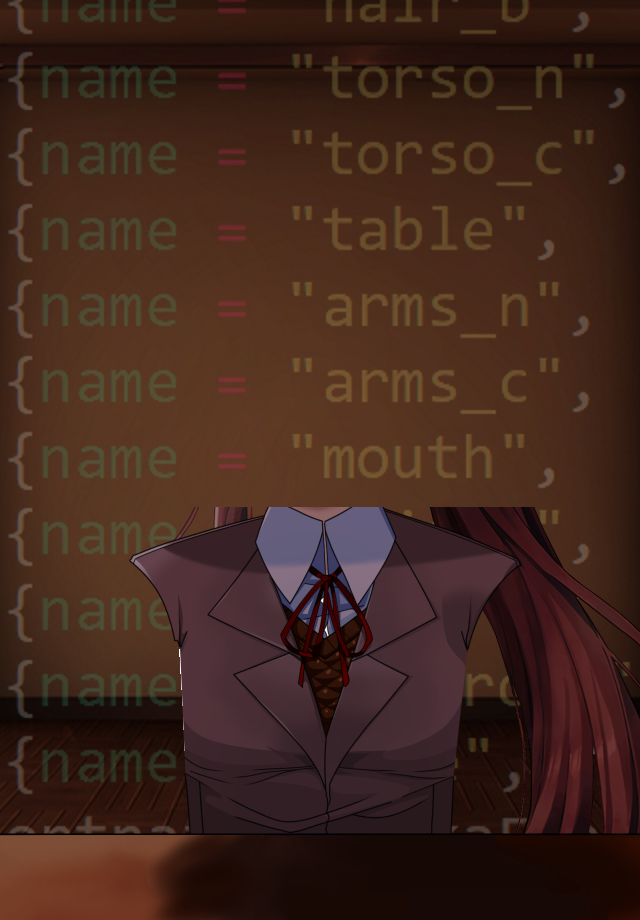
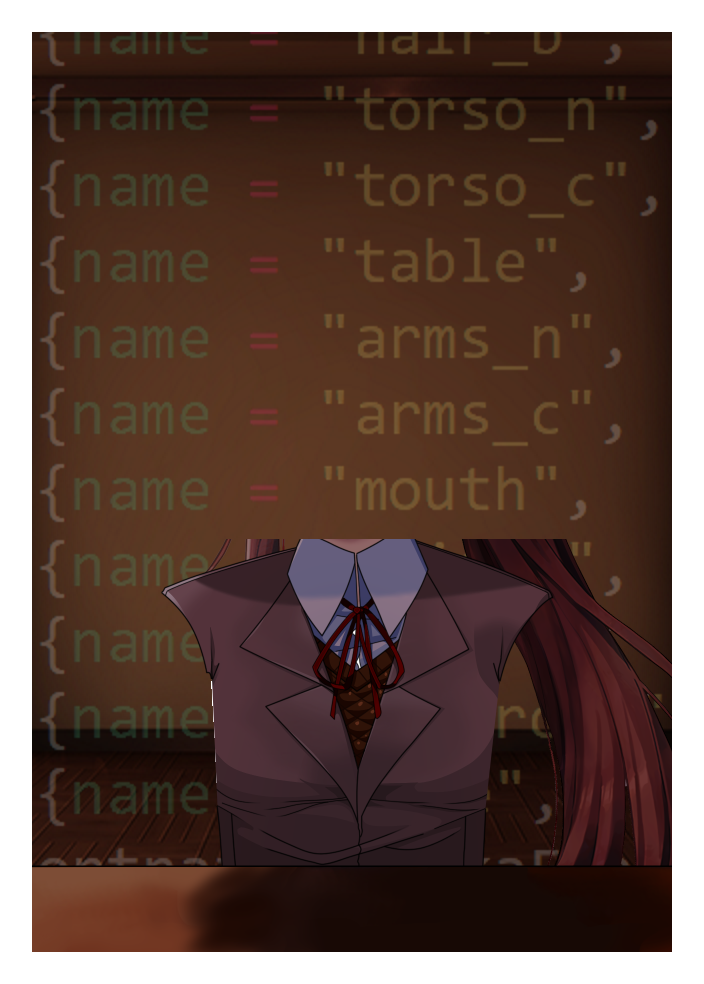
Even more Breaking Monika Attempts

diff --git a/Smart_Attempt/dist/prettycards.user.js b/Smart_Attempt/dist/prettycards.user.js
@@ -156,7 +156,7 @@ eval("__webpack_require__.r(__webpack_exports__);\n/* harmony export (binding) *
 /***/ (function(module, __webpack_exports__, __webpack_require__) {
 
 "use strict";
-eval("__webpack_require__.r(__webpack_exports__);\n/* harmony import */ var _src_libraries_underscript_checker_js__WEBPACK_IMPORTED_MODULE_0__ = __webpack_require__(/*! /src/libraries/underscript_checker.js */ \"./src/libraries/underscript_checker.js\");\n/* harmony import */ var _src_libraries_utility_js__WEBPACK_IMPORTED_MODULE_1__ = __webpack_require__(/*! /src/libraries/utility.js */ \"./src/libraries/utility.js\");\n/* harmony import */ var _src_libraries_custom_cards_custom_cards_dictionary_js__WEBPACK_IMPORTED_MODULE_2__ = __webpack_require__(/*! /src/libraries/custom_cards/custom_cards_dictionary.js */ \"./src/libraries/custom_cards/custom_cards_dictionary.js\");\n/* harmony import */ var _src_libraries_custom_cards_custom_card_filters_js__WEBPACK_IMPORTED_MODULE_3__ = __webpack_require__(/*! /src/libraries/custom_cards/custom_card_filters.js */ \"./src/libraries/custom_cards/custom_card_filters.js\");\n/* harmony import */ var _src_libraries_custom_cards_custom_cards_ddlc_js__WEBPACK_IMPORTED_MODULE_4__ = __webpack_require__(/*! /src/libraries/custom_cards/custom_cards_ddlc.js */ \"./src/libraries/custom_cards/custom_cards_ddlc.js\");\n\r\n\r\n\r\n\r\n\r\n\r\n\r\n\r\n\r\nvar bonusExtensions = [\"DDLC\", \"LUNA\"];\r\nvar bonusTribes = [\"CHIBI\", \"DOKI\", \"CHRSPELL\", \"MELISSAATTACK\"];\r\n\r\n_src_libraries_utility_js__WEBPACK_IMPORTED_MODULE_1__[\"utility\"].loadCSSFromLink(\"https://cdn.jsdelivr.net/gh/CMD-God/prettycards@b6c7dac53c2af7f56eb0305594d9e824f174ebb5/css/CustomCards.css\");\r\n\r\nfunction test_getResizedFontSize(container, maxHeight) {\r\n\tconsole.log(\"Start: \", container);\r\n    var fontSize = 12;\r\n    var max = 10;\r\n    var i = 0;\r\n    var $clonedContainer = container.parent().clone();\r\n    $clonedContainer.appendTo('body');\r\n    $clonedContainer.css('font-size', fontSize + 'px');\r\n    var $clonedContainerDiv = $clonedContainer.find('div');\r\n\tconsole.log($clonedContainerDiv.outerHeight());\r\n    while ($clonedContainerDiv.outerHeight() >= maxHeight && i < max) {\r\n        fontSize = fontSize - 0.5;\r\n        $clonedContainer.css('font-size', fontSize + 'px');\r\n        i++;\r\n\t\tconsole.log(fontSize, i);\r\n    }\r\n    $clonedContainer.remove();\r\n\tconsole.log(\"Return\", fontSize);\r\n    return fontSize;\r\n}\r\n\r\nif (_src_libraries_underscript_checker_js__WEBPACK_IMPORTED_MODULE_0__[\"settings\"].easter_egg_cards.value()) {\r\n\r\n\t_src_libraries_underscript_checker_js__WEBPACK_IMPORTED_MODULE_0__[\"PrettyCards_plugin\"].events.on(\"appendCard()\", function(data) {\r\n\t\tvar html$ = data.element;\r\n\t\tvar card = data.card;\r\n\t\tif (card.fixedId >= _src_libraries_custom_cards_custom_cards_dictionary_js__WEBPACK_IMPORTED_MODULE_2__[\"CustomCardsDictionary\"].customCardsStart) {\r\n\t\t\thtml$.addClass(\"ext_\" + card.extension);\r\n\t\t\t//if (card.extension == \"DDLC\") {\r\n\t\t\t//\thtml$.find().css(\"font-family\", \"Aller\");\r\n\t\t\t//}\r\n\t\t\thtml$.find(\".cardImage\").css('background', \"url('https://raw.githubusercontent.com/CMD-God/prettycards/master/img/Cards/\" + card.extension + \"/\" + card.image + \".png') no-repeat\");\r\n\t\t\tif ((card.extension !== \"BASE\") && (card.extension !== \"DELTARUNE\")) {\r\n\t\t\t\thtml$.find('.cardRarity').css('background', 'transparent url(\\'https://raw.githubusercontent.com/CMD-God/prettycards/master/img/RarityIcons/' + card.extension + '/' + card.rarity + '.png\\') no-repeat');\r\n\t\t\t};\r\n\t\t\t\r\n\t\t\tif (card.background) {\r\n\t\t\t\t\r\n\t\t\t}\r\n\t\t\t\r\n\t\t\tvar cardNameDiv$ = html$.find('.cardName div');\r\n\t\t\tvar cardDescDiv$ = html$.find('.cardDesc div');\r\n\t\t\t\r\n\t\t\tcardNameDiv$.css(\"font-family\", \"Aller\");\r\n\t\t\tcardDescDiv$.css(\"font-family\", \"Aller\");\r\n\r\n\t\t\t//console.log(getResizedFontSize(cardNameDiv$, 25) + \"px\");\r\n\t\t\tconsole.log(\"Name Resize Start \", card.name);\r\n\t\t\tvar nameSize = test_getResizedFontSize(cardNameDiv$, 25);\r\n\t\t\tcardNameDiv$.css('font-size', (nameSize + \"px\"));\r\n\t\t\tconsole.log(\"cardNameDiv font-size\", nameSize + \"px\");\r\n\t\t\t\r\n\t\t\tconsole.log(\"Description Resize Start \", card.name);\r\n\t\t\tvar descSize = test_getResizedFontSize(cardDescDiv$, 81);\r\n\t\t\tcardDescDiv$.css('font-size', (descSize + \"px\"));\r\n\t\t\tconsole.log(\"cardDescDiv font-size\", descSize + \"px\");\r\n\t\t\t\r\n\t\t\tvar tribe_elements = html$.find(\".cardTribes\").children();\r\n\t\t\tfor (var i=0; i < card.tribes.length; i++) {\r\n\t\t\t\tvar tribe = card.tribes[i];\r\n\t\t\t\tif (bonusTribes.includes(tribe)) {\r\n\t\t\t\t\ttribe_elements[i].src = \"https://raw.githubusercontent.com/CMD-God/prettycards/master/img/Tribes/\" + tribe + \".png\";\r\n\t\t\t\t}\r\n\t\t\t}\r\n\t\t}\r\n\t});\r\n\t\r\n\tfunction AddAllCards() {\r\n\t\tfor (var i=0; i < _src_libraries_custom_cards_custom_cards_dictionary_js__WEBPACK_IMPORTED_MODULE_2__[\"CustomCardsDictionary\"].customCards.length; i++) {\r\n\t\t\tvar card = _src_libraries_custom_cards_custom_cards_dictionary_js__WEBPACK_IMPORTED_MODULE_2__[\"CustomCardsDictionary\"].customCards[i];\r\n\t\t\twindow.allCards.push(card);\r\n\t\t}\r\n\t}\r\n\t\r\n\tfunction AddCollection() {\r\n\t\t\r\n\t\tvar isDecks = underscript.onPage(\"Decks\");\r\n\t\tfor (var i=0; i < _src_libraries_custom_cards_custom_cards_dictionary_js__WEBPACK_IMPORTED_MODULE_2__[\"CustomCardsDictionary\"].customCards.length; i++) {\r\n\t\t\tvar card = _src_libraries_custom_cards_custom_cards_dictionary_js__WEBPACK_IMPORTED_MODULE_2__[\"CustomCardsDictionary\"].customCards[i];\r\n\t\t\tif (card.rarity !== \"TOKEN\" || !isDecks) {\r\n\t\t\t\tconsole.log(card);\r\n\t\t\t\tvar shiny = _src_libraries_utility_js__WEBPACK_IMPORTED_MODULE_1__[\"utility\"].completeCopy(card);\r\n\t\t\t\tshiny.shiny = true;\r\n\t\t\t\twindow.collection.push(card);\r\n\t\t\t\twindow.collection.push(shiny);\r\n\t\t\t\tif (isDecks) {\r\n\t\t\t\t\tfor (var key in window.deckCollections) {\r\n\t\t\t\t\t\twindow.deckCollections[key].push(card);\r\n\t\t\t\t\t\twindow.deckCollections[key].push(shiny);\r\n\t\t\t\t\t}\r\n\t\t\t\t}\r\n\t\t\t}\r\n\t\t}\r\n\t\t\r\n\t\tif (isDecks) {\r\n\t\t\tfor (var key in window.deckCollections) {\r\n\t\t\t\twindow.deckCollections[key].sort(function (a, b) {\r\n\t\t\t\t\treturn compare(a.cost, b.cost) || $.i18n('card-name-' + a.id, 1).localeCompare($.i18n('card-name-' + b.id, 1)) || (a.shiny - b.shiny);\r\n\t\t\t\t});\r\n\t\t\t\t//console.log(\"Deck Collection\", key, deckCollections[key]);\r\n\t\t\t}\r\n\t\t}\r\n\t\t\r\n\t\twindow.collection.sort(function (a, b) {\r\n\t\t\treturn compare(a.cost, b.cost) || $.i18n('card-name-' + a.id, 1).localeCompare($.i18n('card-name-' + b.id, 1)) || (a.shiny - b.shiny);\r\n\t\t});\r\n\t\t\r\n\t\tsetTimeout(applyFilters, 100);\r\n\t}\r\n\t\r\n\t_src_libraries_underscript_checker_js__WEBPACK_IMPORTED_MODULE_0__[\"PrettyCards_plugin\"].events.on('Deck:Loaded Craft:Loaded', function(data) {\r\n\t\tAddCollection();\r\n\t});\r\n\t\r\n\twindow.document.addEventListener(\"allCardsReady\", function() {\r\n\t\tAddAllCards();\r\n\t});\r\n\t\r\n\tif (underscript.onPage(\"Decks\") || underscript.onPage(\"Crafting\")) {\r\n\t\tObject(_src_libraries_custom_cards_custom_card_filters_js__WEBPACK_IMPORTED_MODULE_3__[\"SetUpFilters\"])();\r\n\t}\r\n\t\r\n}\n\n//# sourceURL=webpack:///./src/libraries/custom_cards/custom_cards.js?");
+eval("__webpack_require__.r(__webpack_exports__);\n/* harmony import */ var _src_libraries_underscript_checker_js__WEBPACK_IMPORTED_MODULE_0__ = __webpack_require__(/*! /src/libraries/underscript_checker.js */ \"./src/libraries/underscript_checker.js\");\n/* harmony import */ var _src_libraries_utility_js__WEBPACK_IMPORTED_MODULE_1__ = __webpack_require__(/*! /src/libraries/utility.js */ \"./src/libraries/utility.js\");\n/* harmony import */ var _src_libraries_custom_cards_custom_cards_dictionary_js__WEBPACK_IMPORTED_MODULE_2__ = __webpack_require__(/*! /src/libraries/custom_cards/custom_cards_dictionary.js */ \"./src/libraries/custom_cards/custom_cards_dictionary.js\");\n/* harmony import */ var _src_libraries_custom_cards_custom_card_filters_js__WEBPACK_IMPORTED_MODULE_3__ = __webpack_require__(/*! /src/libraries/custom_cards/custom_card_filters.js */ \"./src/libraries/custom_cards/custom_card_filters.js\");\n/* harmony import */ var _src_libraries_custom_cards_custom_cards_ddlc_js__WEBPACK_IMPORTED_MODULE_4__ = __webpack_require__(/*! /src/libraries/custom_cards/custom_cards_ddlc.js */ \"./src/libraries/custom_cards/custom_cards_ddlc.js\");\n\r\n\r\n\r\n\r\n\r\n\r\n\r\n\r\n\r\nvar bonusExtensions = [\"DDLC\", \"LUNA\"];\r\nvar bonusTribes = [\"CHIBI\", \"DOKI\", \"CHRSPELL\", \"MELISSAATTACK\"];\r\n\r\n_src_libraries_utility_js__WEBPACK_IMPORTED_MODULE_1__[\"utility\"].loadCSSFromLink(\"https://cdn.jsdelivr.net/gh/CMD-God/prettycards@a1ff9abe8c10f03bb1530d8a1076bee0eadeb3d5/css/CustomCards.css\");\r\n\r\nfunction test_getResizedFontSize(container, maxHeight) {\r\n\tconsole.log(\"Start: \", container);\r\n    var fontSize = 12;\r\n    var max = 10;\r\n    var i = 0;\r\n    var $clonedContainer = container.parent().clone();\r\n    $clonedContainer.appendTo('body');\r\n    $clonedContainer.css('font-size', fontSize + 'px');\r\n    var $clonedContainerDiv = $clonedContainer.find('div');\r\n\tconsole.log($clonedContainerDiv.outerHeight());\r\n    while ($clonedContainerDiv.outerHeight() >= maxHeight && i < max) {\r\n        fontSize = fontSize - 0.5;\r\n        $clonedContainer.css('font-size', fontSize + 'px');\r\n        i++;\r\n\t\tconsole.log(fontSize, i);\r\n    }\r\n    $clonedContainer.remove();\r\n\tconsole.log(\"Return\", fontSize);\r\n    return fontSize;\r\n}\r\n\r\nif (_src_libraries_underscript_checker_js__WEBPACK_IMPORTED_MODULE_0__[\"settings\"].easter_egg_cards.value()) {\r\n\r\n\t_src_libraries_underscript_checker_js__WEBPACK_IMPORTED_MODULE_0__[\"PrettyCards_plugin\"].events.on(\"appendCard()\", function(data) {\r\n\t\tvar html$ = data.element;\r\n\t\tvar card = data.card;\r\n\t\tif (card.fixedId >= _src_libraries_custom_cards_custom_cards_dictionary_js__WEBPACK_IMPORTED_MODULE_2__[\"CustomCardsDictionary\"].customCardsStart) {\r\n\t\t\thtml$.addClass(\"ext_\" + card.extension);\r\n\t\t\t//if (card.extension == \"DDLC\") {\r\n\t\t\t//\thtml$.find().css(\"font-family\", \"Aller\");\r\n\t\t\t//}\r\n\t\t\thtml$.find(\".cardImage\").css('background', \"url('https://raw.githubusercontent.com/CMD-God/prettycards/master/img/Cards/\" + card.extension + \"/\" + card.image + \".png') no-repeat\");\r\n\t\t\tif ((card.extension !== \"BASE\") && (card.extension !== \"DELTARUNE\")) {\r\n\t\t\t\thtml$.find('.cardRarity').css('background', 'transparent url(\\'https://raw.githubusercontent.com/CMD-God/prettycards/master/img/RarityIcons/' + card.extension + '/' + card.rarity + '.png\\') no-repeat');\r\n\t\t\t};\r\n\t\t\t\r\n\t\t\tif (card.background) {\r\n\t\t\t\tvar bg = $('<div class=\"breakingSkinBackground\"></div>');\r\n\t\t\t\tbg.css(\"background\", \"url('https://raw.githubusercontent.com/CMD-God/prettycards/master/img/Cards/\" + card.extension + \"/\" + card.background + \".png') no-repeat\");\r\n\t\t\t\tbg.css(\"background-size\", \"contain\");\r\n\t\t\t\tbg.css(\"background-position\", \"center\");\r\n\t\t\t\thtml$.append(bg);\r\n\t\t\t}\r\n\t\t\t\r\n\t\t\tvar cardNameDiv$ = html$.find('.cardName div');\r\n\t\t\tvar cardDescDiv$ = html$.find('.cardDesc div');\r\n\t\t\t\r\n\t\t\tcardNameDiv$.css(\"font-family\", \"Aller\");\r\n\t\t\tcardDescDiv$.css(\"font-family\", \"Aller\");\r\n\r\n\t\t\t//console.log(getResizedFontSize(cardNameDiv$, 25) + \"px\");\r\n\t\t\tconsole.log(\"Name Resize Start \", card.name);\r\n\t\t\tvar nameSize = test_getResizedFontSize(cardNameDiv$, 25);\r\n\t\t\tcardNameDiv$.css('font-size', (nameSize + \"px\"));\r\n\t\t\tconsole.log(\"cardNameDiv font-size\", nameSize + \"px\");\r\n\t\t\t\r\n\t\t\tconsole.log(\"Description Resize Start \", card.name);\r\n\t\t\tvar descSize = test_getResizedFontSize(cardDescDiv$, 81);\r\n\t\t\tcardDescDiv$.css('font-size', (descSize + \"px\"));\r\n\t\t\tconsole.log(\"cardDescDiv font-size\", descSize + \"px\");\r\n\t\t\t\r\n\t\t\tvar tribe_elements = html$.find(\".cardTribes\").children();\r\n\t\t\tfor (var i=0; i < card.tribes.length; i++) {\r\n\t\t\t\tvar tribe = card.tribes[i];\r\n\t\t\t\tif (bonusTribes.includes(tribe)) {\r\n\t\t\t\t\ttribe_elements[i].src = \"https://raw.githubusercontent.com/CMD-God/prettycards/master/img/Tribes/\" + tribe + \".png\";\r\n\t\t\t\t}\r\n\t\t\t}\r\n\t\t}\r\n\t});\r\n\t\r\n\tfunction AddAllCards() {\r\n\t\tfor (var i=0; i < _src_libraries_custom_cards_custom_cards_dictionary_js__WEBPACK_IMPORTED_MODULE_2__[\"CustomCardsDictionary\"].customCards.length; i++) {\r\n\t\t\tvar card = _src_libraries_custom_cards_custom_cards_dictionary_js__WEBPACK_IMPORTED_MODULE_2__[\"CustomCardsDictionary\"].customCards[i];\r\n\t\t\twindow.allCards.push(card);\r\n\t\t}\r\n\t}\r\n\t\r\n\tfunction AddCollection() {\r\n\t\t\r\n\t\tvar isDecks = underscript.onPage(\"Decks\");\r\n\t\tfor (var i=0; i < _src_libraries_custom_cards_custom_cards_dictionary_js__WEBPACK_IMPORTED_MODULE_2__[\"CustomCardsDictionary\"].customCards.length; i++) {\r\n\t\t\tvar card = _src_libraries_custom_cards_custom_cards_dictionary_js__WEBPACK_IMPORTED_MODULE_2__[\"CustomCardsDictionary\"].customCards[i];\r\n\t\t\tif (card.rarity !== \"TOKEN\" || !isDecks) {\r\n\t\t\t\tconsole.log(card);\r\n\t\t\t\tvar shiny = _src_libraries_utility_js__WEBPACK_IMPORTED_MODULE_1__[\"utility\"].completeCopy(card);\r\n\t\t\t\tshiny.shiny = true;\r\n\t\t\t\twindow.collection.push(card);\r\n\t\t\t\twindow.collection.push(shiny);\r\n\t\t\t\tif (isDecks) {\r\n\t\t\t\t\tfor (var key in window.deckCollections) {\r\n\t\t\t\t\t\twindow.deckCollections[key].push(card);\r\n\t\t\t\t\t\twindow.deckCollections[key].push(shiny);\r\n\t\t\t\t\t}\r\n\t\t\t\t}\r\n\t\t\t}\r\n\t\t}\r\n\t\t\r\n\t\tif (isDecks) {\r\n\t\t\tfor (var key in window.deckCollections) {\r\n\t\t\t\twindow.deckCollections[key].sort(function (a, b) {\r\n\t\t\t\t\treturn compare(a.cost, b.cost) || $.i18n('card-name-' + a.id, 1).localeCompare($.i18n('card-name-' + b.id, 1)) || (a.shiny - b.shiny);\r\n\t\t\t\t});\r\n\t\t\t\t//console.log(\"Deck Collection\", key, deckCollections[key]);\r\n\t\t\t}\r\n\t\t}\r\n\t\t\r\n\t\twindow.collection.sort(function (a, b) {\r\n\t\t\treturn compare(a.cost, b.cost) || $.i18n('card-name-' + a.id, 1).localeCompare($.i18n('card-name-' + b.id, 1)) || (a.shiny - b.shiny);\r\n\t\t});\r\n\t\t\r\n\t\tsetTimeout(applyFilters, 100);\r\n\t}\r\n\t\r\n\t_src_libraries_underscript_checker_js__WEBPACK_IMPORTED_MODULE_0__[\"PrettyCards_plugin\"].events.on('Deck:Loaded Craft:Loaded', function(data) {\r\n\t\tAddCollection();\r\n\t});\r\n\t\r\n\twindow.document.addEventListener(\"allCardsReady\", function() {\r\n\t\tAddAllCards();\r\n\t});\r\n\t\r\n\tif (underscript.onPage(\"Decks\") || underscript.onPage(\"Crafting\")) {\r\n\t\tObject(_src_libraries_custom_cards_custom_card_filters_js__WEBPACK_IMPORTED_MODULE_3__[\"SetUpFilters\"])();\r\n\t}\r\n\t\r\n}\n\n//# sourceURL=webpack:///./src/libraries/custom_cards/custom_cards.js?");
 
 /***/ }),
 
@@ -168,7 +168,7 @@ eval("__webpack_require__.r(__webpack_exports__);\n/* harmony import */ var _src
 /***/ (function(module, __webpack_exports__, __webpack_require__) {
 
 "use strict";
-eval("__webpack_require__.r(__webpack_exports__);\n/* harmony import */ var _src_libraries_custom_cards_custom_cards_dictionary_js__WEBPACK_IMPORTED_MODULE_0__ = __webpack_require__(/*! /src/libraries/custom_cards/custom_cards_dictionary.js */ \"./src/libraries/custom_cards/custom_cards_dictionary.js\");\n\r\n\r\n\r\n// Chibis\r\n\r\n_src_libraries_custom_cards_custom_cards_dictionary_js__WEBPACK_IMPORTED_MODULE_0__[\"CustomCardsDictionary\"].AddCustomCard({\r\n\tname: \"{{PLURAL:$1|Chibi Sayori|Chibi Sayoris}}\",\r\n\timage: \"Chibi_Sayori\",\r\n\tcost: 3,\r\n\tattack: 2,\r\n\thp: 2,\r\n\tdescription: \"{{KW:MAGIC}}: All {{TRIBE:CHIBI|2}} get +1/+1/+1 for the rest of the game, and clear all negative effects from all ally monsters.\",\r\n\ttribes: [\"CHIBI\"],\r\n\textension: \"DDLC\",\r\n\trarity: \"COMMON\"\r\n});\r\n\r\n_src_libraries_custom_cards_custom_cards_dictionary_js__WEBPACK_IMPORTED_MODULE_0__[\"CustomCardsDictionary\"].AddCustomCard({\r\n\tname: \"{{PLURAL:$1|Chibi Natsuki|Chibi Natsukis}}\",\r\n\timage: \"Chibi_Natsuki\",\r\n\tcost: 3,\r\n\tattack: 2,\r\n\thp: 2,\r\n\tdescription: \"{{KW:MAGIC}}: All {{TRIBE:CHIBI|2}} get +1/+1/+1 for the rest of the game, and give +3 {{HP}} to an ally monster.\",\r\n\ttribes: [\"CHIBI\"],\r\n\textension: \"DDLC\",\r\n\trarity: \"COMMON\"\r\n});\r\n\r\n_src_libraries_custom_cards_custom_cards_dictionary_js__WEBPACK_IMPORTED_MODULE_0__[\"CustomCardsDictionary\"].AddCustomCard({\r\n\tname: \"{{PLURAL:$1|Chibi Yuri|Chibi Yuris}}\",\r\n\timage: \"Chibi_Yuri\",\r\n\tcost: 3,\r\n\tattack: 2,\r\n\thp: 2,\r\n\tdescription: \"{{KW:MAGIC}}: All {{TRIBE:CHIBI|2}} get +1/+1/+1 for the rest of the game, and give +2 {{ATK}} to an ally monster.\",\r\n\ttribes: [\"CHIBI\"],\r\n\textension: \"DDLC\",\r\n\trarity: \"COMMON\"\r\n});\r\n\r\n_src_libraries_custom_cards_custom_cards_dictionary_js__WEBPACK_IMPORTED_MODULE_0__[\"CustomCardsDictionary\"].AddCustomCard({\r\n\tname: \"{{PLURAL:$1|Chibi Monika|Chibi Monikas}}\",\r\n\timage: \"Chibi_Monika\",\r\n\tcost: 5,\r\n\tattack: 2,\r\n\thp: 2,\r\n\tdescription: \"{{KW:MAGIC}}: All {{TRIBE:CHIBI|2}} get +1/+1/+1 for the rest of the game, and add a copy of all other ally {{TRIBE:CHIBI|2}} to your hand.\",\r\n\ttribes: [\"CHIBI\"],\r\n\textension: \"DDLC\",\r\n\trarity: \"COMMON\"\r\n});\r\n\r\n// Regular Cast\r\n\r\n_src_libraries_custom_cards_custom_cards_dictionary_js__WEBPACK_IMPORTED_MODULE_0__[\"CustomCardsDictionary\"].AddCustomCard({\r\n\tname: \"{{PLURAL:$1|Sayori|Sayoris}}\",\r\n\timage: \"Sayori\",\r\n\tcost: 4,\r\n\tattack: 3,\r\n\thp: 3,\r\n\tdescription: \"{{KW:MAGIC}}: Draw a {{TRIBE:DOKI|1}} from your deck. {{KW:SUICIDE}}: Deal 1 {{DMG}} to all enemy monsters. Damaged targets get -3 Max {{HP}} instead.\",\r\n\ttribes: [\"DOKI\"],\r\n\textension: \"DDLC\",\r\n\trarity: \"EPIC\"\r\n});\r\n\r\n_src_libraries_custom_cards_custom_cards_dictionary_js__WEBPACK_IMPORTED_MODULE_0__[\"CustomCardsDictionary\"].AddCustomCard({\r\n\tname: \"{{PLURAL:$1|Cupcake|Cupcakes}}\",\r\n\timage: \"Cupcake\",\r\n\tcost: 1,\r\n\tdescription: \"Heal for 4 {{HP}} to an ally or deal 3 {{DMG}} to an enemy monster.\",\r\n\textension: \"DDLC\",\r\n\trarity: \"TOKEN\"\r\n});\r\n\r\n_src_libraries_custom_cards_custom_cards_dictionary_js__WEBPACK_IMPORTED_MODULE_0__[\"CustomCardsDictionary\"].AddCustomCard({\r\n\tname: \"{{PLURAL:$1|Natsuki|Natsukis}}\",\r\n\timage: \"Natsuki\",\r\n\tcost: 4,\r\n\tattack: 3,\r\n\thp: 4,\r\n\tdescription: \"{{KW:MAGIC}}: Add two \" + _src_libraries_custom_cards_custom_cards_dictionary_js__WEBPACK_IMPORTED_MODULE_0__[\"CustomCardsDictionary\"].DescriptionCard(\"Cupcake\", 2) + \" to your hand. {{KW:SUICIDE}}: Deal 5 {{DMG}} to the monster in front of this.\",\r\n\ttribes: [\"DOKI\"],\r\n\textension: \"DDLC\",\r\n\trarity: \"EPIC\"\r\n});\r\n\r\n_src_libraries_custom_cards_custom_cards_dictionary_js__WEBPACK_IMPORTED_MODULE_0__[\"CustomCardsDictionary\"].AddCustomCard({\r\n\tname: \"{{PLURAL:$1|Yuri|Yuris}}\",\r\n\timage: \"Yuri\",\r\n\tcost: 5,\r\n\tattack: 4,\r\n\thp: 3,\r\n\tdescription: \"Whenever this survives {{DMG}}, give this +1 {{HP}}. {{KW:SUICIDE}}: {{KW:PARALYZE}} all ally monsters, then {{KW:PARALYZE}} a random unparalyzed enemy monster for each paralyzed ally monster.\",\r\n\ttribes: [\"DOKI\"],\r\n\textension: \"DDLC\",\r\n\trarity: \"EPIC\"\r\n});\r\n\r\n_src_libraries_custom_cards_custom_cards_dictionary_js__WEBPACK_IMPORTED_MODULE_0__[\"CustomCardsDictionary\"].AddCustomCard({\r\n\tname: \"{{PLURAL:$1|Monika|Monikas}}\",\r\n\timage: \"Monika\",\r\n\tcost: 5,\r\n\tattack: 3,\r\n\thp: 3,\r\n\tdescription: \"{{KW:MAGIC}}: Kill an ally {{TRIBE:DOKI|1}} to summon another \" + _src_libraries_custom_cards_custom_cards_dictionary_js__WEBPACK_IMPORTED_MODULE_0__[\"CustomCardsDictionary\"].DescriptionSelfCard() + \". {{KW:DUST}}: Add another random {{TRIBE:DOKI|1}} to your hand with -2 {{COST}}.\",\r\n\ttribes: [\"DOKI\"],\r\n\textension: \"DDLC\",\r\n\trarity: \"EPIC\"\r\n});\r\n\r\n_src_libraries_custom_cards_custom_cards_dictionary_js__WEBPACK_IMPORTED_MODULE_0__[\"CustomCardsDictionary\"].AddCustomCard({\r\n\tname: \"{{PLURAL:$1|Main Character|Main Characters}}\",\r\n\timage: \"Protagonist\",\r\n\tcost: 6,\r\n\tattack: 3,\r\n\thp: 7,\r\n\ttaunt: true,\r\n\tdescription: \"{{KW:TAUNT}}. {{KW:TURN-END}}: Add a copy of every unique monster to your deck whose {{KW:SUICIDE}} effect was triggered this turn.\",\r\n\t//tribes: [\"DOKI\"],\r\n\textension: \"DDLC\",\r\n\trarity: \"EPIC\"\r\n});\r\n\r\n/*\r\nCustomCardsDictionary.AddCustomCard({\r\n\tname: \"{{PLURAL:$1|Just Monika|Just Monikas}}\",\r\n\timage: \"Just_Monika\",\r\n\tcost: 9,\r\n\tattack: 6,\r\n\thp: 6,\r\n\tdescription: \"{{KW:MAGIC}}: Shuffle all the {{TRIBE:CHRSPELL|2}} into your deck. {{KW:SUICIDE}} effects trigger an additional time.\",\r\n\textension: \"DDLC\",\r\n\trarity: \"DETERMINATION\"\r\n});\r\n*/\r\n\r\n// Just Monika\r\n\r\n_src_libraries_custom_cards_custom_cards_dictionary_js__WEBPACK_IMPORTED_MODULE_0__[\"CustomCardsDictionary\"].AddCustomCard({\r\n\tname: \"{{PLURAL:$1|Sayori.chr|Sayori.chrs}}\",\r\n\timage: \"SayoriCHR\",\r\n\tcost: 0,\r\n\tdescription: \"{{KW:TURBO}}: Remove all negative effects from ally monsters, apply them to the monsters in front of them, burn this and draw a card.\",\r\n\ttribes: [\"CHRSPELL\"],\r\n\textension: \"DDLC\",\r\n\trarity: \"TOKEN\"\r\n});\r\n\r\n_src_libraries_custom_cards_custom_cards_dictionary_js__WEBPACK_IMPORTED_MODULE_0__[\"CustomCardsDictionary\"].AddCustomCard({\r\n\tname: \"{{PLURAL:$1|Natsuki.chr|Natsuki.chrs}}\",\r\n\timage: \"NatsukiCHR\",\r\n\tcost: 0,\r\n\tdescription: \"{{KW:TURBO}}: Add a random 5-{{COST}} monster from your dustpile to your hand, give it -4 {{COST}}, burn this and draw a card.\",\r\n\ttribes: [\"CHRSPELL\"],\r\n\textension: \"DDLC\",\r\n\trarity: \"TOKEN\"\r\n});\r\n\r\n_src_libraries_custom_cards_custom_cards_dictionary_js__WEBPACK_IMPORTED_MODULE_0__[\"CustomCardsDictionary\"].AddCustomCard({\r\n\tname: \"{{PLURAL:$1|Yuri.chr|Yuri.chrs}}\",\r\n\timage: \"YuriCHR\",\r\n\tcost: 0,\r\n\tdescription: \"{{KW:TURBO}}: Kill the enemy monster with the lowest {{HP}}, burn this and draw a card.\",\r\n\ttribes: [\"CHRSPELL\"],\r\n\textension: \"DDLC\",\r\n\trarity: \"TOKEN\"\r\n});\r\n\r\n_src_libraries_custom_cards_custom_cards_dictionary_js__WEBPACK_IMPORTED_MODULE_0__[\"CustomCardsDictionary\"].AddCustomCard({\r\n\tname: \"{{PLURAL:$1|Monika.chr|Monika.chrs}}\",\r\n\timage: \"MonikaCHR\",\r\n\tcost: 0,\r\n\tdescription: \"{{KW:TURBO}}: Send a random ally and enemy non-{{RARITY:DETERMINATION}} monster from the board to their owners' hands, burn this and draw a card.\",\r\n\ttribes: [\"CHRSPELL\"],\r\n\textension: \"DDLC\",\r\n\trarity: \"TOKEN\"\r\n});\r\n\r\n_src_libraries_custom_cards_custom_cards_dictionary_js__WEBPACK_IMPORTED_MODULE_0__[\"CustomCardsDictionary\"].AddCustomArtifact(\"File Explorer\", \r\n\t`{{KW:TURN-END}}: If a monster died this turn, add the next {{TRIBE:CHRSPELL|1}} to the top of your deck. Add an additional one for every ally {{KW:SUICIDE}} effect triggered this turn. \r\n\t\r\n\tOrder of {{TRIBE:CHRSPELL|2}}: ${_src_libraries_custom_cards_custom_cards_dictionary_js__WEBPACK_IMPORTED_MODULE_0__[\"CustomCardsDictionary\"].DescriptionCard(\"Sayori.chr\", 1)} > ${_src_libraries_custom_cards_custom_cards_dictionary_js__WEBPACK_IMPORTED_MODULE_0__[\"CustomCardsDictionary\"].DescriptionCard(\"Natsuki.chr\", 1)} > ${_src_libraries_custom_cards_custom_cards_dictionary_js__WEBPACK_IMPORTED_MODULE_0__[\"CustomCardsDictionary\"].DescriptionCard(\"Yuri.chr\", 1)} > ${_src_libraries_custom_cards_custom_cards_dictionary_js__WEBPACK_IMPORTED_MODULE_0__[\"CustomCardsDictionary\"].DescriptionCard(\"Monika.chr\", 1)} > Start over.`\r\n);\r\n\r\n// Advanced Dokis\r\n\r\n_src_libraries_custom_cards_custom_cards_dictionary_js__WEBPACK_IMPORTED_MODULE_0__[\"CustomCardsDictionary\"].AddCustomCard({\r\n\tname: \"{{PLURAL:$1|Just Monika|Just Monikas}}\",\r\n\timage: \"Just_Monika_Breaking\",\r\n\tbackground: \"Just_Monika_Breaking_BG\",\r\n\tcost: 9,\r\n\tattack: 6,\r\n\thp: 6,\r\n\tdescription: \"{{KW:MAGIC}}: Add the \" + _src_libraries_custom_cards_custom_cards_dictionary_js__WEBPACK_IMPORTED_MODULE_0__[\"CustomCardsDictionary\"].DescriptionArtifact(\"File Explorer\") + \" artifact. Whenever you summon a monster, trigger its {{KW:SUICIDE}} effect.\",\r\n\textension: \"DDLC\",\r\n\ttypeSkin: 1,\r\n\trarity: \"DETERMINATION\"\r\n});\r\n\r\n_src_libraries_custom_cards_custom_cards_dictionary_js__WEBPACK_IMPORTED_MODULE_0__[\"CustomCardsDictionary\"].AddCustomCard({\r\n\tname: \"{{PLURAL:$1|Sad Sayori|Sad Sayoris}}\",\r\n\timage: \"Depressed_Sayori\",\r\n\tcost: 6,\r\n\tattack: 2,\r\n\thp: 5,\r\n\tdescription: \"{{KW:MAGIC}}: Enemies cannot be healed or receive extra {{HP}} until the start of your next turn. {{KW:SUICIDE}}: Give +3 {{HP}} to every ally.\",\r\n\textension: \"DDLC\",\r\n\trarity: \"LEGENDARY\"\r\n});\r\n\r\n_src_libraries_custom_cards_custom_cards_dictionary_js__WEBPACK_IMPORTED_MODULE_0__[\"CustomCardsDictionary\"].AddCustomCard({\r\n\tname: \"{{PLURAL:$1|Club President Sayori|Club President Sayoris}}\",\r\n\timage: \"Club_President_Sayori\",\r\n\tcost: 8,\r\n\tattack: 6,\r\n\thp: 6,\r\n\tdescription: \"{{KW:MAGIC}}: Kill all ally monsters. Shuffle two random {{TRIBE:CHRSPELL|2}} into your deck for each of them.\",\r\n\textension: \"DDLC\",\r\n\trarity: \"LEGENDARY\"\r\n});\r\n\r\n_src_libraries_custom_cards_custom_cards_dictionary_js__WEBPACK_IMPORTED_MODULE_0__[\"CustomCardsDictionary\"].AddCustomCard({\r\n\tname: \"{{PLURAL:$1|Obsessed Yuri|Obsessed Yuris}}\",\r\n\timage: \"Obsessed_Yuri\",\r\n\tcost: 8,\r\n\tattack: 4,\r\n\thp: 5,\r\n\tarmor: true,\r\n\tdescription: \"{{KW:ARMOR}}. Whenever this takes {{DMG}}, shuffle a random {{TRIBE:YURIKNIFE}} into your deck. {{KW:SUICIDE}}: Cast 3 random {{TRIBE:YURIKNIFE|2}} on random targets.\",\r\n\textension: \"DDLC\",\r\n\trarity: \"LEGENDARY\"\r\n});\r\n\r\n_src_libraries_custom_cards_custom_cards_dictionary_js__WEBPACK_IMPORTED_MODULE_0__[\"CustomCardsDictionary\"].AddCustomCard({\r\n\tname: \"{{PLURAL:$1|Corrupted Natsuki|Corrupted Natsukis}}\",\r\n\timage: \"Corrupted_Natsuki\",\r\n\tcost: 10,\r\n\tattack: 8,\r\n\thp: 2,\r\n\thaste: true,\r\n\tdescription: \"{{KW:HASTE}}. {{KW:SUICIDE}}: If this killed an enemy monster, deal the excess {{DMG}} this received to the enemy player.\",\r\n\textension: \"DDLC\",\r\n\trarity: \"LEGENDARY\"\r\n});\r\n\r\n_src_libraries_custom_cards_custom_cards_dictionary_js__WEBPACK_IMPORTED_MODULE_0__[\"CustomCardsDictionary\"].AddCustomCard({\r\n\tname: \"{{PLURAL:$1|Club President Monika|Club President Monikas}}\",\r\n\timage: \"Club_President_Monika\",\r\n\tcost: 5,\r\n\tattack: 4,\r\n\thp: 4,\r\n\tdescription: \"{{KW:MAGIC}}: Burn 3 {{RARITY:EPIC}} {{KW:SUICIDE}} monsters from your dustpile. Trigger their {{KW:SUICIDE}} effects. {{KW:DUST}}: Add a random {{TRIBE:CHRSPELL}} to the bottom of your deck for each monster burned.\",\r\n\textension: \"DDLC\",\r\n\trarity: \"LEGENDARY\"\r\n});\r\n\r\n\n\n//# sourceURL=webpack:///./src/libraries/custom_cards/custom_cards_ddlc.js?");
+eval("__webpack_require__.r(__webpack_exports__);\n/* harmony import */ var _src_libraries_custom_cards_custom_cards_dictionary_js__WEBPACK_IMPORTED_MODULE_0__ = __webpack_require__(/*! /src/libraries/custom_cards/custom_cards_dictionary.js */ \"./src/libraries/custom_cards/custom_cards_dictionary.js\");\n\r\n\r\n\r\n// Chibis\r\n\r\n_src_libraries_custom_cards_custom_cards_dictionary_js__WEBPACK_IMPORTED_MODULE_0__[\"CustomCardsDictionary\"].AddCustomCard({\r\n\tname: \"{{PLURAL:$1|Chibi Sayori|Chibi Sayoris}}\",\r\n\timage: \"Chibi_Sayori\",\r\n\tcost: 3,\r\n\tattack: 2,\r\n\thp: 2,\r\n\tdescription: \"{{KW:MAGIC}}: All {{TRIBE:CHIBI|2}} get +1/+1/+1 for the rest of the game, and clear all negative effects from all ally monsters.\",\r\n\ttribes: [\"CHIBI\"],\r\n\textension: \"DDLC\",\r\n\trarity: \"COMMON\"\r\n});\r\n\r\n_src_libraries_custom_cards_custom_cards_dictionary_js__WEBPACK_IMPORTED_MODULE_0__[\"CustomCardsDictionary\"].AddCustomCard({\r\n\tname: \"{{PLURAL:$1|Chibi Natsuki|Chibi Natsukis}}\",\r\n\timage: \"Chibi_Natsuki\",\r\n\tcost: 3,\r\n\tattack: 2,\r\n\thp: 2,\r\n\tdescription: \"{{KW:MAGIC}}: All {{TRIBE:CHIBI|2}} get +1/+1/+1 for the rest of the game, and give +3 {{HP}} to an ally monster.\",\r\n\ttribes: [\"CHIBI\"],\r\n\textension: \"DDLC\",\r\n\trarity: \"COMMON\"\r\n});\r\n\r\n_src_libraries_custom_cards_custom_cards_dictionary_js__WEBPACK_IMPORTED_MODULE_0__[\"CustomCardsDictionary\"].AddCustomCard({\r\n\tname: \"{{PLURAL:$1|Chibi Yuri|Chibi Yuris}}\",\r\n\timage: \"Chibi_Yuri\",\r\n\tcost: 3,\r\n\tattack: 2,\r\n\thp: 2,\r\n\tdescription: \"{{KW:MAGIC}}: All {{TRIBE:CHIBI|2}} get +1/+1/+1 for the rest of the game, and give +2 {{ATK}} to an ally monster.\",\r\n\ttribes: [\"CHIBI\"],\r\n\textension: \"DDLC\",\r\n\trarity: \"COMMON\"\r\n});\r\n\r\n_src_libraries_custom_cards_custom_cards_dictionary_js__WEBPACK_IMPORTED_MODULE_0__[\"CustomCardsDictionary\"].AddCustomCard({\r\n\tname: \"{{PLURAL:$1|Chibi Monika|Chibi Monikas}}\",\r\n\timage: \"Chibi_Monika\",\r\n\tcost: 5,\r\n\tattack: 2,\r\n\thp: 2,\r\n\tdescription: \"{{KW:MAGIC}}: All {{TRIBE:CHIBI|2}} get +1/+1/+1 for the rest of the game, and add a copy of all other ally {{TRIBE:CHIBI|2}} to your hand.\",\r\n\ttribes: [\"CHIBI\"],\r\n\textension: \"DDLC\",\r\n\trarity: \"COMMON\"\r\n});\r\n\r\n// Regular Cast\r\n\r\n_src_libraries_custom_cards_custom_cards_dictionary_js__WEBPACK_IMPORTED_MODULE_0__[\"CustomCardsDictionary\"].AddCustomCard({\r\n\tname: \"{{PLURAL:$1|Sayori|Sayoris}}\",\r\n\timage: \"Sayori\",\r\n\tcost: 4,\r\n\tattack: 3,\r\n\thp: 3,\r\n\tdescription: \"{{KW:MAGIC}}: Draw a {{TRIBE:DOKI|1}} from your deck. {{KW:SUICIDE}}: Deal 1 {{DMG}} to all enemy monsters. Damaged targets get -3 Max {{HP}} instead.\",\r\n\ttribes: [\"DOKI\"],\r\n\textension: \"DDLC\",\r\n\trarity: \"EPIC\"\r\n});\r\n\r\n_src_libraries_custom_cards_custom_cards_dictionary_js__WEBPACK_IMPORTED_MODULE_0__[\"CustomCardsDictionary\"].AddCustomCard({\r\n\tname: \"{{PLURAL:$1|Cupcake|Cupcakes}}\",\r\n\timage: \"Cupcake\",\r\n\tcost: 1,\r\n\tdescription: \"Heal for 4 {{HP}} to an ally or deal 3 {{DMG}} to an enemy monster.\",\r\n\textension: \"DDLC\",\r\n\trarity: \"TOKEN\"\r\n});\r\n\r\n_src_libraries_custom_cards_custom_cards_dictionary_js__WEBPACK_IMPORTED_MODULE_0__[\"CustomCardsDictionary\"].AddCustomCard({\r\n\tname: \"{{PLURAL:$1|Natsuki|Natsukis}}\",\r\n\timage: \"Natsuki\",\r\n\tcost: 4,\r\n\tattack: 3,\r\n\thp: 4,\r\n\tdescription: \"{{KW:MAGIC}}: Add two \" + _src_libraries_custom_cards_custom_cards_dictionary_js__WEBPACK_IMPORTED_MODULE_0__[\"CustomCardsDictionary\"].DescriptionCard(\"Cupcake\", 2) + \" to your hand. {{KW:SUICIDE}}: Deal 5 {{DMG}} to the monster in front of this.\",\r\n\ttribes: [\"DOKI\"],\r\n\textension: \"DDLC\",\r\n\trarity: \"EPIC\"\r\n});\r\n\r\n_src_libraries_custom_cards_custom_cards_dictionary_js__WEBPACK_IMPORTED_MODULE_0__[\"CustomCardsDictionary\"].AddCustomCard({\r\n\tname: \"{{PLURAL:$1|Yuri|Yuris}}\",\r\n\timage: \"Yuri\",\r\n\tcost: 5,\r\n\tattack: 4,\r\n\thp: 3,\r\n\tdescription: \"Whenever this survives {{DMG}}, give this +1 {{HP}}. {{KW:SUICIDE}}: {{KW:PARALYZE}} all ally monsters, then {{KW:PARALYZE}} a random unparalyzed enemy monster for each paralyzed ally monster.\",\r\n\ttribes: [\"DOKI\"],\r\n\textension: \"DDLC\",\r\n\trarity: \"EPIC\"\r\n});\r\n\r\n_src_libraries_custom_cards_custom_cards_dictionary_js__WEBPACK_IMPORTED_MODULE_0__[\"CustomCardsDictionary\"].AddCustomCard({\r\n\tname: \"{{PLURAL:$1|Monika|Monikas}}\",\r\n\timage: \"Monika\",\r\n\tcost: 5,\r\n\tattack: 3,\r\n\thp: 3,\r\n\tdescription: \"{{KW:MAGIC}}: Kill an ally {{TRIBE:DOKI|1}} to summon another \" + _src_libraries_custom_cards_custom_cards_dictionary_js__WEBPACK_IMPORTED_MODULE_0__[\"CustomCardsDictionary\"].DescriptionSelfCard() + \". {{KW:DUST}}: Add another random {{TRIBE:DOKI|1}} to your hand with -2 {{COST}}.\",\r\n\ttribes: [\"DOKI\"],\r\n\textension: \"DDLC\",\r\n\trarity: \"EPIC\"\r\n});\r\n\r\n_src_libraries_custom_cards_custom_cards_dictionary_js__WEBPACK_IMPORTED_MODULE_0__[\"CustomCardsDictionary\"].AddCustomCard({\r\n\tname: \"{{PLURAL:$1|Main Character|Main Characters}}\",\r\n\timage: \"Protagonist\",\r\n\tcost: 6,\r\n\tattack: 3,\r\n\thp: 7,\r\n\ttaunt: true,\r\n\tdescription: \"{{KW:TAUNT}}. {{KW:TURN-END}}: Add a copy of every unique monster to your deck whose {{KW:SUICIDE}} effect was triggered this turn.\",\r\n\t//tribes: [\"DOKI\"],\r\n\textension: \"DDLC\",\r\n\trarity: \"EPIC\"\r\n});\r\n\r\n/*\r\nCustomCardsDictionary.AddCustomCard({\r\n\tname: \"{{PLURAL:$1|Just Monika|Just Monikas}}\",\r\n\timage: \"Just_Monika\",\r\n\tcost: 9,\r\n\tattack: 6,\r\n\thp: 6,\r\n\tdescription: \"{{KW:MAGIC}}: Shuffle all the {{TRIBE:CHRSPELL|2}} into your deck. {{KW:SUICIDE}} effects trigger an additional time.\",\r\n\textension: \"DDLC\",\r\n\trarity: \"DETERMINATION\"\r\n});\r\n*/\r\n\r\n// Just Monika\r\n\r\n_src_libraries_custom_cards_custom_cards_dictionary_js__WEBPACK_IMPORTED_MODULE_0__[\"CustomCardsDictionary\"].AddCustomCard({\r\n\tname: \"{{PLURAL:$1|Sayori.chr|Sayori.chrs}}\",\r\n\timage: \"SayoriCHR\",\r\n\tcost: 0,\r\n\tdescription: \"{{KW:TURBO}}: Remove all negative effects from ally monsters, apply them to the monsters in front of them, burn this and draw a card.\",\r\n\ttribes: [\"CHRSPELL\"],\r\n\textension: \"DDLC\",\r\n\trarity: \"TOKEN\"\r\n});\r\n\r\n_src_libraries_custom_cards_custom_cards_dictionary_js__WEBPACK_IMPORTED_MODULE_0__[\"CustomCardsDictionary\"].AddCustomCard({\r\n\tname: \"{{PLURAL:$1|Natsuki.chr|Natsuki.chrs}}\",\r\n\timage: \"NatsukiCHR\",\r\n\tcost: 0,\r\n\tdescription: \"{{KW:TURBO}}: Add a random 5-{{COST}} monster from your dustpile to your hand, give it -4 {{COST}}, burn this and draw a card.\",\r\n\ttribes: [\"CHRSPELL\"],\r\n\textension: \"DDLC\",\r\n\trarity: \"TOKEN\"\r\n});\r\n\r\n_src_libraries_custom_cards_custom_cards_dictionary_js__WEBPACK_IMPORTED_MODULE_0__[\"CustomCardsDictionary\"].AddCustomCard({\r\n\tname: \"{{PLURAL:$1|Yuri.chr|Yuri.chrs}}\",\r\n\timage: \"YuriCHR\",\r\n\tcost: 0,\r\n\tdescription: \"{{KW:TURBO}}: Kill the enemy monster with the lowest {{HP}}, burn this and draw a card.\",\r\n\ttribes: [\"CHRSPELL\"],\r\n\textension: \"DDLC\",\r\n\trarity: \"TOKEN\"\r\n});\r\n\r\n_src_libraries_custom_cards_custom_cards_dictionary_js__WEBPACK_IMPORTED_MODULE_0__[\"CustomCardsDictionary\"].AddCustomCard({\r\n\tname: \"{{PLURAL:$1|Monika.chr|Monika.chrs}}\",\r\n\timage: \"MonikaCHR\",\r\n\tcost: 0,\r\n\tdescription: \"{{KW:TURBO}}: Send a random ally and enemy non-{{RARITY:DETERMINATION}} monster from the board to their owners' hands, burn this and draw a card.\",\r\n\ttribes: [\"CHRSPELL\"],\r\n\textension: \"DDLC\",\r\n\trarity: \"TOKEN\"\r\n});\r\n\r\n_src_libraries_custom_cards_custom_cards_dictionary_js__WEBPACK_IMPORTED_MODULE_0__[\"CustomCardsDictionary\"].AddCustomArtifact(\"File Explorer\", \r\n\t`{{KW:TURN-END}}: If a monster died this turn, add the next {{TRIBE:CHRSPELL|1}} to the top of your deck. Add an additional one for every ally {{KW:SUICIDE}} effect triggered this turn. \r\n\t\r\n\tOrder of {{TRIBE:CHRSPELL|2}}: ${_src_libraries_custom_cards_custom_cards_dictionary_js__WEBPACK_IMPORTED_MODULE_0__[\"CustomCardsDictionary\"].DescriptionCard(\"Sayori.chr\", 1)} > ${_src_libraries_custom_cards_custom_cards_dictionary_js__WEBPACK_IMPORTED_MODULE_0__[\"CustomCardsDictionary\"].DescriptionCard(\"Natsuki.chr\", 1)} > ${_src_libraries_custom_cards_custom_cards_dictionary_js__WEBPACK_IMPORTED_MODULE_0__[\"CustomCardsDictionary\"].DescriptionCard(\"Yuri.chr\", 1)} > ${_src_libraries_custom_cards_custom_cards_dictionary_js__WEBPACK_IMPORTED_MODULE_0__[\"CustomCardsDictionary\"].DescriptionCard(\"Monika.chr\", 1)} > Start over.`\r\n);\r\n\r\n// Advanced Dokis\r\n\r\n_src_libraries_custom_cards_custom_cards_dictionary_js__WEBPACK_IMPORTED_MODULE_0__[\"CustomCardsDictionary\"].AddCustomCard({\r\n\tname: \"{{PLURAL:$1|Just Monika|Just Monikas}}\",\r\n\timage: \"Just_Monika_Breaking\",\r\n\tbackground: \"Just_Monika_Breaking_BG\",\r\n\tcost: 9,\r\n\tattack: 6,\r\n\thp: 6,\r\n\tdescription: \"{{KW:MAGIC}}: Add the \" + _src_libraries_custom_cards_custom_cards_dictionary_js__WEBPACK_IMPORTED_MODULE_0__[\"CustomCardsDictionary\"].DescriptionArtifact(\"File Explorer\") + \" artifact. Whenever you summon a monster, trigger its {{KW:SUICIDE}} effect.\",\r\n\textension: \"DDLC\",\r\n\ttypeSkin: 2,\r\n\trarity: \"DETERMINATION\"\r\n});\r\n\r\n_src_libraries_custom_cards_custom_cards_dictionary_js__WEBPACK_IMPORTED_MODULE_0__[\"CustomCardsDictionary\"].AddCustomCard({\r\n\tname: \"{{PLURAL:$1|Sad Sayori|Sad Sayoris}}\",\r\n\timage: \"Depressed_Sayori\",\r\n\tcost: 6,\r\n\tattack: 2,\r\n\thp: 5,\r\n\tdescription: \"{{KW:MAGIC}}: Enemies cannot be healed or receive extra {{HP}} until the start of your next turn. {{KW:SUICIDE}}: Give +3 {{HP}} to every ally.\",\r\n\textension: \"DDLC\",\r\n\trarity: \"LEGENDARY\"\r\n});\r\n\r\n_src_libraries_custom_cards_custom_cards_dictionary_js__WEBPACK_IMPORTED_MODULE_0__[\"CustomCardsDictionary\"].AddCustomCard({\r\n\tname: \"{{PLURAL:$1|Club President Sayori|Club President Sayoris}}\",\r\n\timage: \"Club_President_Sayori\",\r\n\tcost: 8,\r\n\tattack: 6,\r\n\thp: 6,\r\n\tdescription: \"{{KW:MAGIC}}: Kill all ally monsters. Shuffle two random {{TRIBE:CHRSPELL|2}} into your deck for each of them.\",\r\n\textension: \"DDLC\",\r\n\trarity: \"LEGENDARY\"\r\n});\r\n\r\n_src_libraries_custom_cards_custom_cards_dictionary_js__WEBPACK_IMPORTED_MODULE_0__[\"CustomCardsDictionary\"].AddCustomCard({\r\n\tname: \"{{PLURAL:$1|Obsessed Yuri|Obsessed Yuris}}\",\r\n\timage: \"Obsessed_Yuri\",\r\n\tcost: 8,\r\n\tattack: 4,\r\n\thp: 5,\r\n\tarmor: true,\r\n\tdescription: \"{{KW:ARMOR}}. Whenever this takes {{DMG}}, shuffle a random {{TRIBE:YURIKNIFE}} into your deck. {{KW:SUICIDE}}: Cast 3 random {{TRIBE:YURIKNIFE|2}} on random targets.\",\r\n\textension: \"DDLC\",\r\n\trarity: \"LEGENDARY\"\r\n});\r\n\r\n_src_libraries_custom_cards_custom_cards_dictionary_js__WEBPACK_IMPORTED_MODULE_0__[\"CustomCardsDictionary\"].AddCustomCard({\r\n\tname: \"{{PLURAL:$1|Corrupted Natsuki|Corrupted Natsukis}}\",\r\n\timage: \"Corrupted_Natsuki\",\r\n\tcost: 10,\r\n\tattack: 8,\r\n\thp: 2,\r\n\thaste: true,\r\n\tdescription: \"{{KW:HASTE}}. {{KW:SUICIDE}}: If this killed an enemy monster, deal the excess {{DMG}} this received to the enemy player.\",\r\n\textension: \"DDLC\",\r\n\trarity: \"LEGENDARY\"\r\n});\r\n\r\n_src_libraries_custom_cards_custom_cards_dictionary_js__WEBPACK_IMPORTED_MODULE_0__[\"CustomCardsDictionary\"].AddCustomCard({\r\n\tname: \"{{PLURAL:$1|Club President Monika|Club President Monikas}}\",\r\n\timage: \"Club_President_Monika\",\r\n\tcost: 5,\r\n\tattack: 4,\r\n\thp: 4,\r\n\tdescription: \"{{KW:MAGIC}}: Burn 3 {{RARITY:EPIC}} {{KW:SUICIDE}} monsters from your dustpile. Trigger their {{KW:SUICIDE}} effects. {{KW:DUST}}: Add a random {{TRIBE:CHRSPELL}} to the bottom of your deck for each monster burned.\",\r\n\textension: \"DDLC\",\r\n\trarity: \"LEGENDARY\"\r\n});\r\n\r\n\n\n//# sourceURL=webpack:///./src/libraries/custom_cards/custom_cards_ddlc.js?");
 
 /***/ }),
 

diff --git a/Smart_Attempt/src/libraries/custom_cards/custom_cards.js b/Smart_Attempt/src/libraries/custom_cards/custom_cards.js
@@ -10,7 +10,7 @@ import {} from "/src/libraries/custom_cards/custom_cards_ddlc.js"
 var bonusExtensions = ["DDLC", "LUNA"];
 var bonusTribes = ["CHIBI", "DOKI", "CHRSPELL", "MELISSAATTACK"];
 
-utility.loadCSSFromLink("https://cdn.jsdelivr.net/gh/CMD-God/prettycards@b6c7dac53c2af7f56eb0305594d9e824f174ebb5/css/CustomCards.css");
+utility.loadCSSFromLink("https://cdn.jsdelivr.net/gh/CMD-God/prettycards@a1ff9abe8c10f03bb1530d8a1076bee0eadeb3d5/css/CustomCards.css");
 
 function test_getResizedFontSize(container, maxHeight) {
 	console.log("Start: ", container);
@@ -49,7 +49,11 @@ if (settings.easter_egg_cards.value()) {
 			};
 			
 			if (card.background) {
-				
+				var bg = $('<div class="breakingSkinBackground"></div>');
+				bg.css("background", "url('https://raw.githubusercontent.com/CMD-God/prettycards/master/img/Cards/" + card.extension + "/" + card.background + ".png') no-repeat");
+				bg.css("background-size", "contain");
+				bg.css("background-position", "center");
+				html$.append(bg);
 			}
 			
 			var cardNameDiv$ = html$.find('.cardName div');

diff --git a/Smart_Attempt/src/libraries/custom_cards/custom_cards_ddlc.js b/Smart_Attempt/src/libraries/custom_cards/custom_cards_ddlc.js
@@ -195,7 +195,7 @@ CustomCardsDictionary.AddCustomCard({
 	hp: 6,
 	description: "{{KW:MAGIC}}: Add the " + CustomCardsDictionary.DescriptionArtifact("File Explorer") + " artifact. Whenever you summon a monster, trigger its {{KW:SUICIDE}} effect.",
 	extension: "DDLC",
-	typeSkin: 1,
+	typeSkin: 2,
 	rarity: "DETERMINATION"
 });
 
